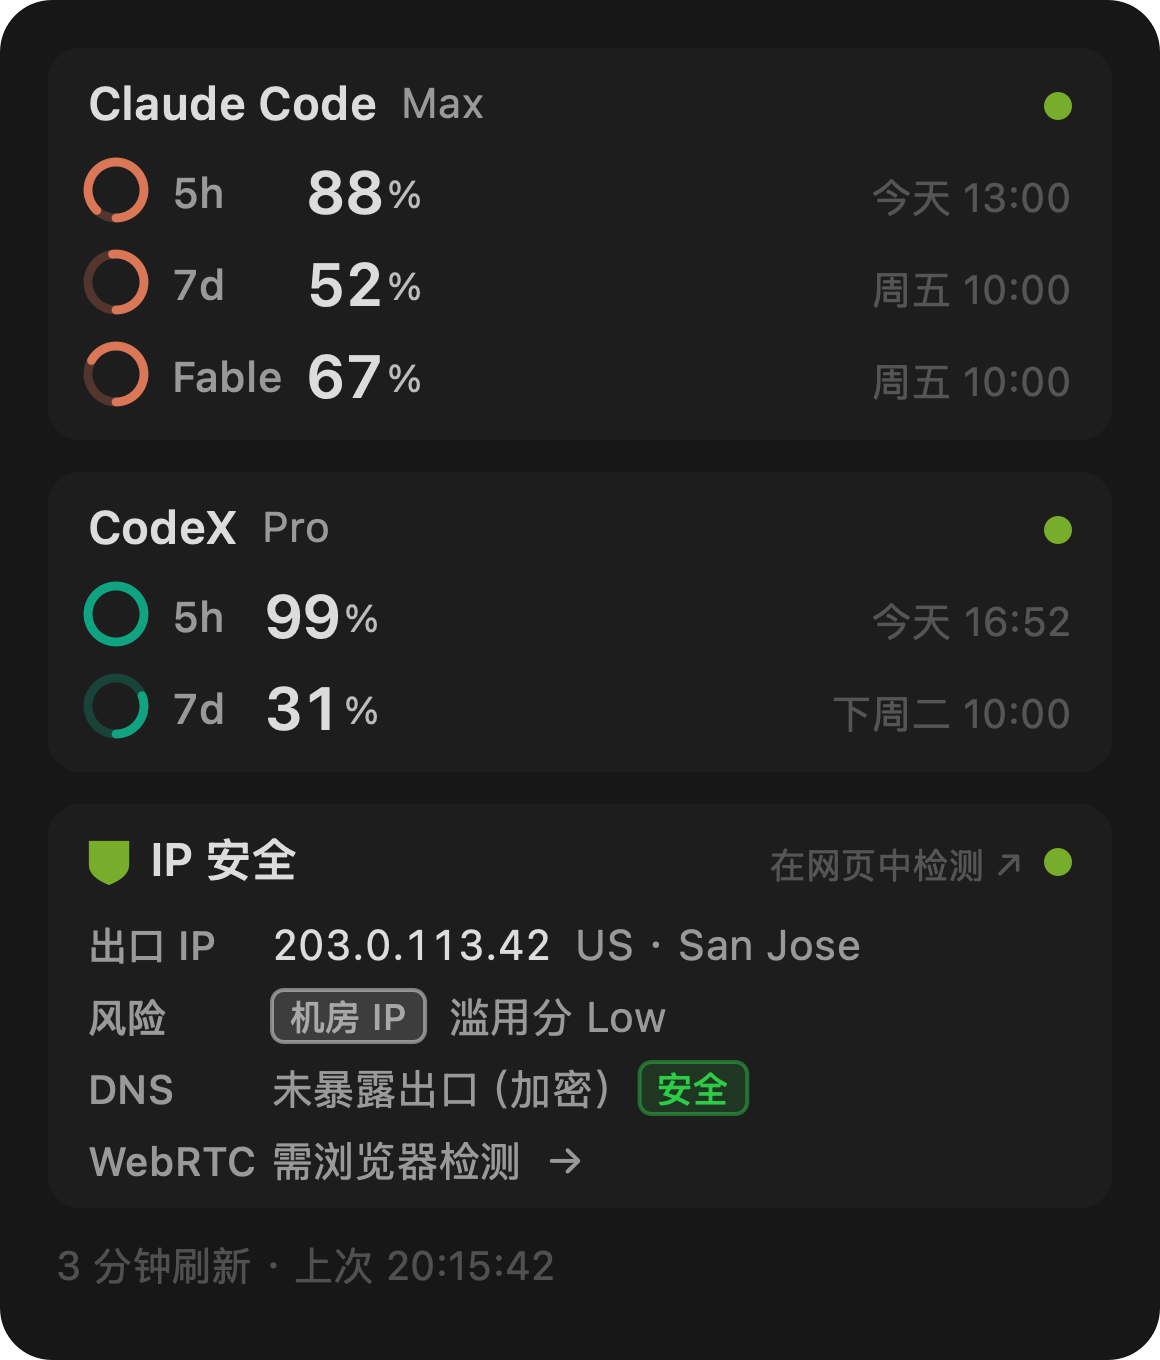
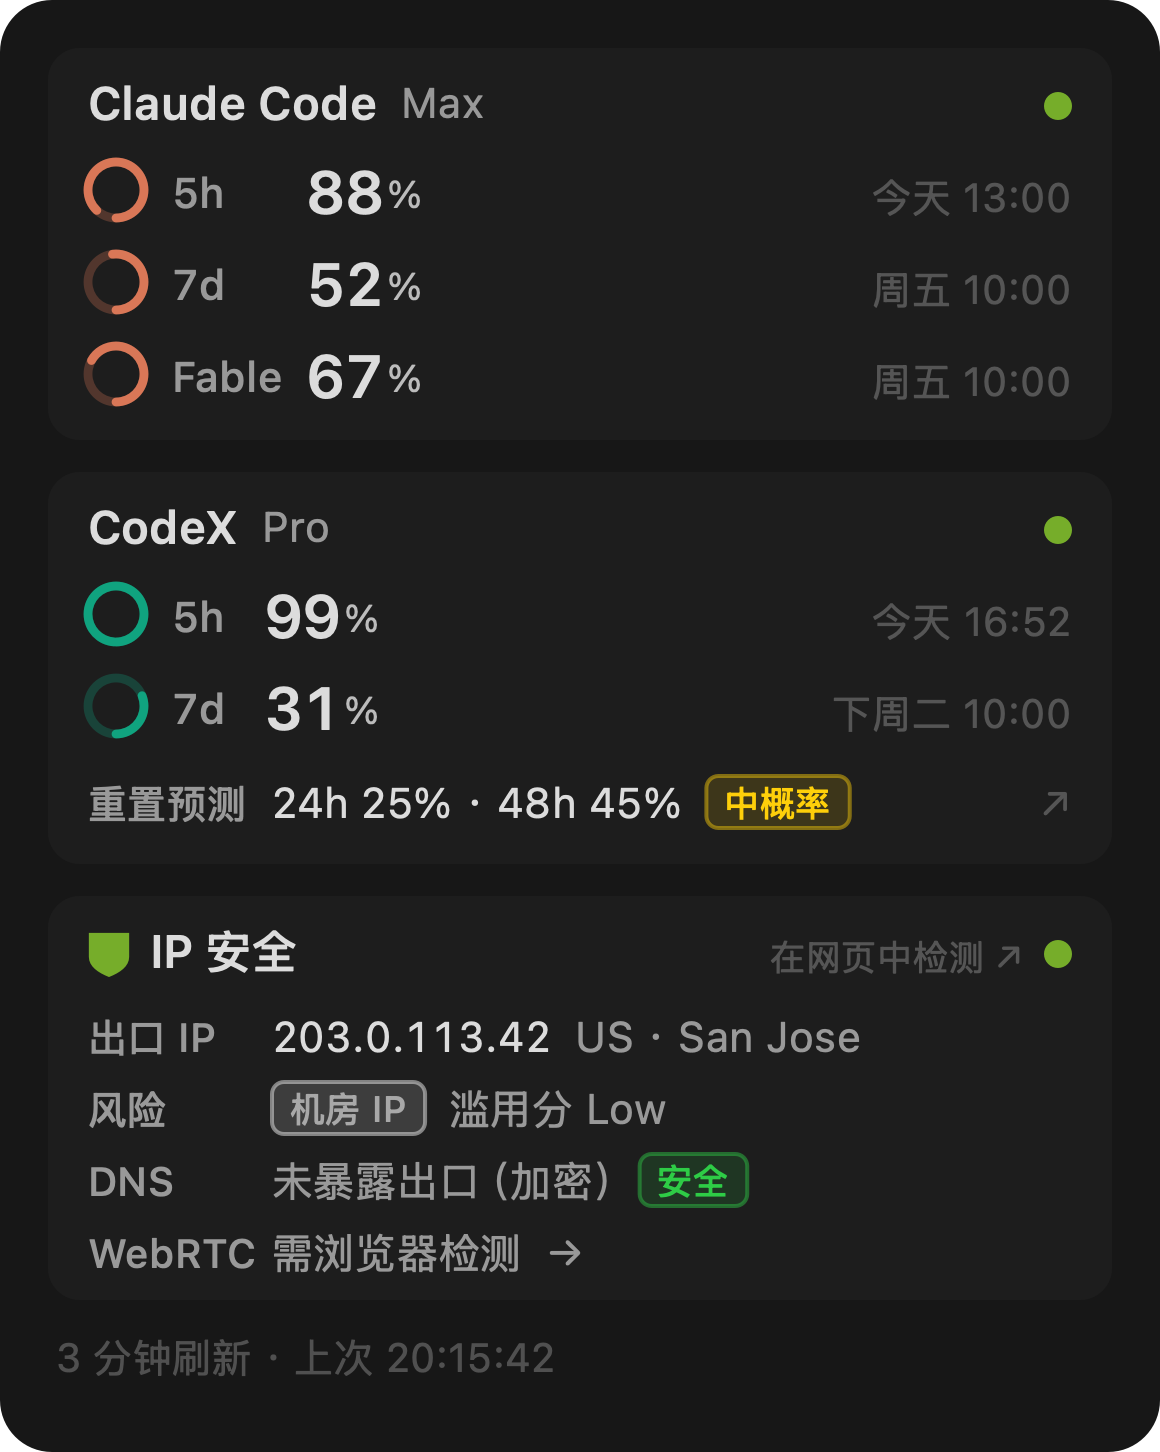
docs: README 补 CodeX 重置预测一节，面板截图重拍（含重置预测行）

diff --git a/README.md b/README.md
@@ -20,6 +20,15 @@
 
 Claude 卡片在 5h / 7d 之外还有第三行：**按模型限定的周期额度**（上图的 Fable 行）——这一档在 claude.ai 用量页看得到，但一般的菜单栏工具不显示。标签用服务端下发的模型名，旗舰换代时自动跟随，无需升级 App。macOS 面板与 Windows flyout 均已支持（Windows 上同时进入托盘悬浮 tooltip）。
 
+## CodeX 重置预测（fork 版新增）
+
+近期 CodeX 官方会不定期做全量额度重置（负责人 tibo 常在 X 上预告/官宣）。CodeX 卡片因此多了一行**重置预测**：未来 24h / 48h 内发生重置的概率 + 概率档标签，**整行点击跳转最近一条官宣推文**。
+
+- 数据来自社区「Tibo 雷达」[codex-reset.com](https://codex-reset.com/tibo) 的公开接口（其每 2 分钟同步 @thsottiaux 的 X，28+ 次已验证重置打底）；App 端 **30 分钟拉取一轮** + 随机抖动，与其余采集同一套低调哲学
+- 概率档：≥60% 绿「高概率」 / ≥30% 黄「中概率」 / 其余灰「低概率」
+- 这是**概率预测不是官方承诺**——数据源自标为实验模型；拿不到数据或缓存超 12 小时，整行自动隐藏，不显示陈旧概率
+- 目前 macOS 面板支持，Windows flyout 下个版本跟进
+
 <table><tr>
   <td><img src="docs/screenshot-panel-light.png" width="300" /></td>
   <td><img src="docs/screenshot-panel-dark.png" width="300" /></td>
